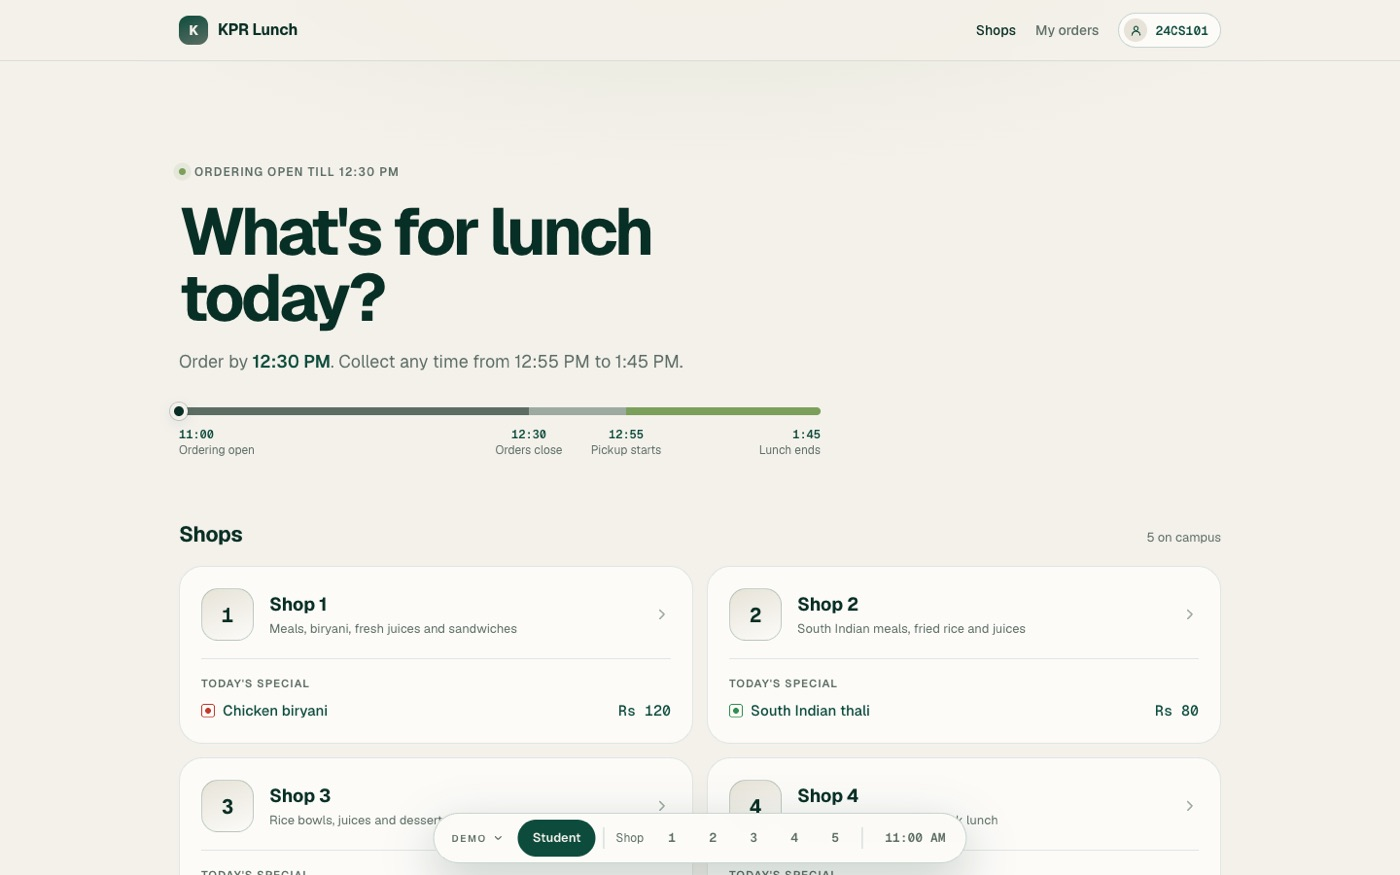
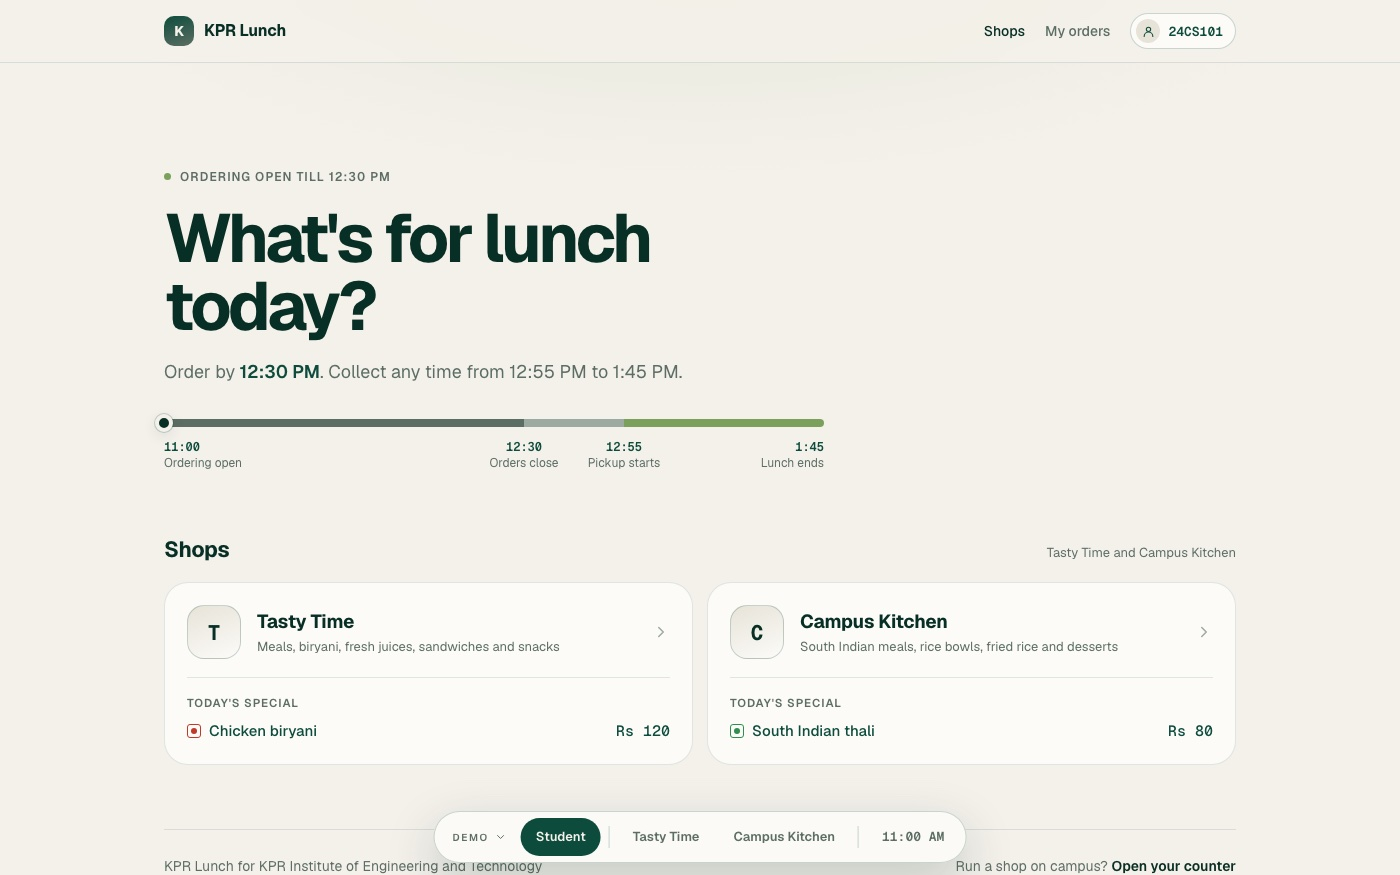
KPR Lunch card: github.io demo link, two shops, new screenshot

diff --git a/index.html b/index.html
@@ -400,10 +400,10 @@ footer .row{display:flex;justify-content:space-between;gap:1rem;flex-wrap:wrap;b
       <article class="pc rv-up">
         <div class="tagl"><span>Product · Oct 2026</span><b><i></i>live demo</b></div>
         <h3>KPR Lunch</h3>
-        <p>Students order lunch from class and collect it with a token, across 5 shops for about 4,000 students on my campus. Each shop has its own counter view, cart and UPI ID, and the rules follow real campus timings: ordering closes 12:30, cancelling 12:40. Cash orders wait until the student taps "I'm coming". A prototype: data stays in the browser, and real payments need a gateway and a backend first.</p>
+        <p>Students order lunch from class and collect it with a token, for about 4,000 students on my campus, with two campus food shops in the demo. Each shop has its own counter view, cart and UPI ID, and the rules follow real campus timings: ordering closes 12:30, cancelling 12:40. Cash orders wait until the student taps "I'm coming". A prototype: data stays in the browser, and real payments need a gateway and a backend first.</p>
         <figure class="shot"><img src="img/kpr-lunch.jpg" width="1400" height="875" loading="lazy" decoding="async" alt="KPR Lunch student view: ordering open till 12:30 PM, a lunch timeline, and shop cards with the special of the day and its price"><figcaption>Student view, with the demo switcher for shops</figcaption></figure>
         <ul class="stack"><li class="ai">Built with AI</li><li>HTML</li><li>CSS</li><li>JavaScript</li><li>Mobile first</li></ul>
-        <div class="plinks"><a href="https://claude.ai/artifact/Fa2Z4tPwBQSLGSsTKu1HkJ">Open demo ↗</a></div>
+        <div class="plinks"><a href="https://rgokulkrishna44-debug.github.io/kpr-lunch/">Open demo ↗</a></div>
       </article>
       <article class="pc wide rv-up">
         <div class="tagl"><span>Web app · Aug 2026</span><b><i></i>live</b></div>
